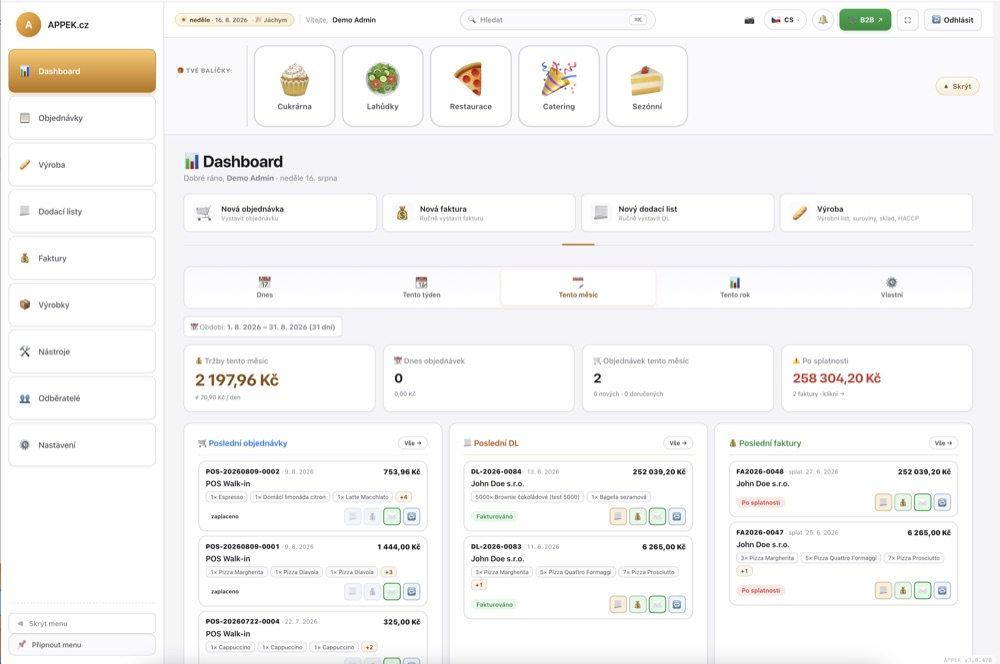
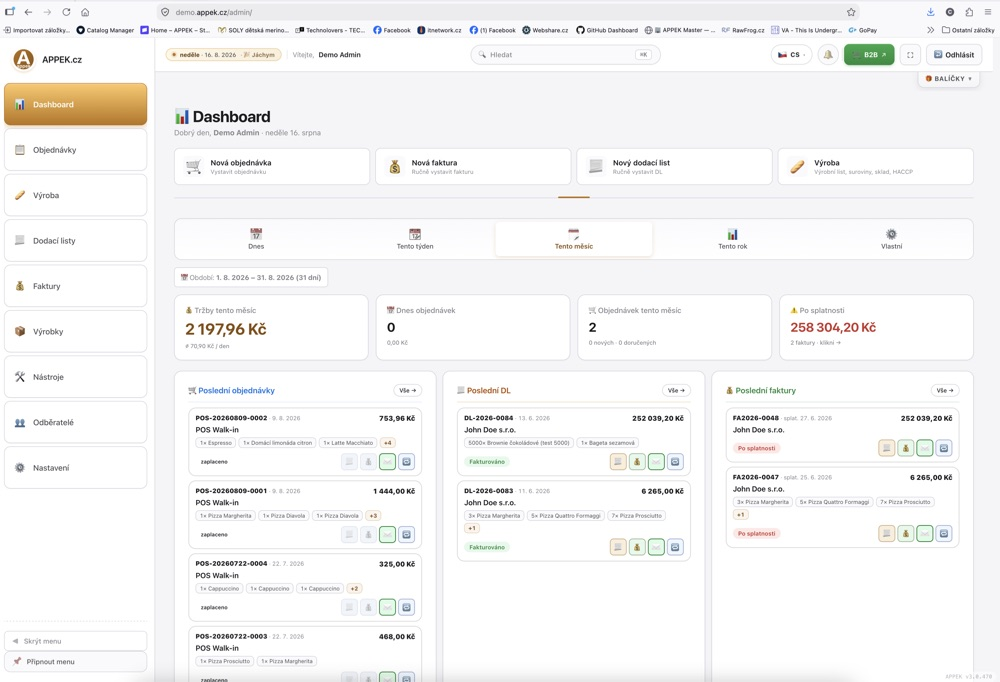
hero: foto přebíjí motiv (theme.css.php) přes html body section.hero+!important; ukázky: větší dashboard 1000x682 + stejné výšky karet (cover) + hover ukáže celou fotku (user)

diff --git a/index.html b/index.html
@@ -116,6 +116,24 @@ img { max-width: 100%; display: block; }
 }
 /* Foto v hero už ukazuje appku → skryj CSS mockup (photo-ready fallback zůstává v HTML) */
 .hero-visual { display: none; }
+/* Foto MUSÍ přebít motiv (theme.css.php: html body .hero{background:…!important}).
+   Vyšší specificita (html body section.hero) + !important vyhraje na všech motivech. */
+html body section.hero {
+  background-image:
+    linear-gradient(95deg, rgba(255,252,245,0.95) 0%, rgba(255,252,245,0.88) 30%, rgba(255,252,245,0.48) 56%, rgba(255,252,245,0.06) 78%, rgba(255,252,245,0) 100%),
+    url('assets/hero-bg.jpg') !important;
+  background-size: cover, cover !important;
+  background-position: center, center right !important;
+  background-repeat: no-repeat, no-repeat !important;
+}
+@media (max-width: 900px) {
+  html body section.hero {
+    background-image:
+      linear-gradient(180deg, rgba(255,252,245,0.96) 0%, rgba(255,252,245,0.9) 42%, rgba(255,252,245,0.55) 100%),
+      url('assets/hero-bg.jpg') !important;
+    background-position: center, center top !important;
+  }
+}
 @media (max-width: 900px) {
   .hero {
     background-image:
@@ -3262,9 +3280,10 @@ if(t)document.getElementById('site-theme').href='theme.css.php?theme='+encodeURI
   /* 🆕 4 reálné screenshoty (user) — desktop řada, mobil 2×2 */
   .ss-photos { display: grid; grid-template-columns: repeat(4, 1fr); gap: 18px; align-items: start; }
   .ss-photo { margin: 0; }
-  .ss-photo img { width: 100%; height: auto; display: block; border-radius: 14px; border: 1px solid rgba(0,0,0,0.06); box-shadow: 0 12px 30px rgba(133,79,11,0.10); background: #fff; opacity: 1; transition: transform 0.3s ease, box-shadow 0.3s ease; }
+  .ss-photo img { width: 100%; height: auto; aspect-ratio: 1000 / 725; object-fit: cover; display: block; border-radius: 14px; border: 1px solid rgba(0,0,0,0.06); box-shadow: 0 12px 30px rgba(133,79,11,0.10); background: #fff; opacity: 1; transition: transform 0.3s ease, box-shadow 0.3s ease; }
   .ss-photo figcaption { margin-top: 10px; font-size: 14px; font-weight: 600; color: #1d1d1f; text-align: center; }
-  @media (hover: hover) { .ss-photo img { cursor: zoom-in; } .ss-photo img:hover { transform: scale(1.05); box-shadow: 0 22px 54px rgba(133,79,11,0.22); position: relative; z-index: 2; } }
+  /* Hover na PC: přiblíží a ukáže CELOU fotku (contain) — grid drží stejné výšky (cover). */
+  @media (hover: hover) { .ss-photo img { cursor: zoom-in; } .ss-photo img:hover { object-fit: contain; transform: scale(1.06); box-shadow: 0 22px 54px rgba(133,79,11,0.22); position: relative; z-index: 2; } }
   @media (max-width: 720px) { .ss-photos { grid-template-columns: 1fr 1fr; gap: 14px; } .ss-photo figcaption { font-size: 13px; } }
   .ss-grid {
     display: grid; grid-template-columns: repeat(auto-fit, minmax(360px, 1fr));
